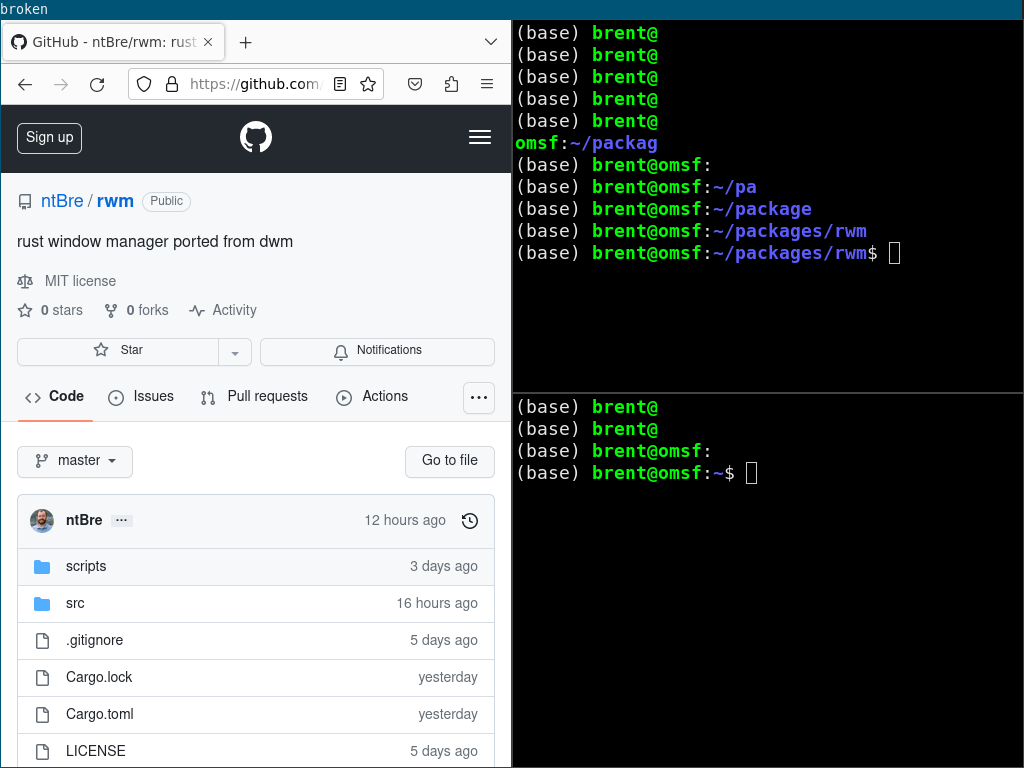
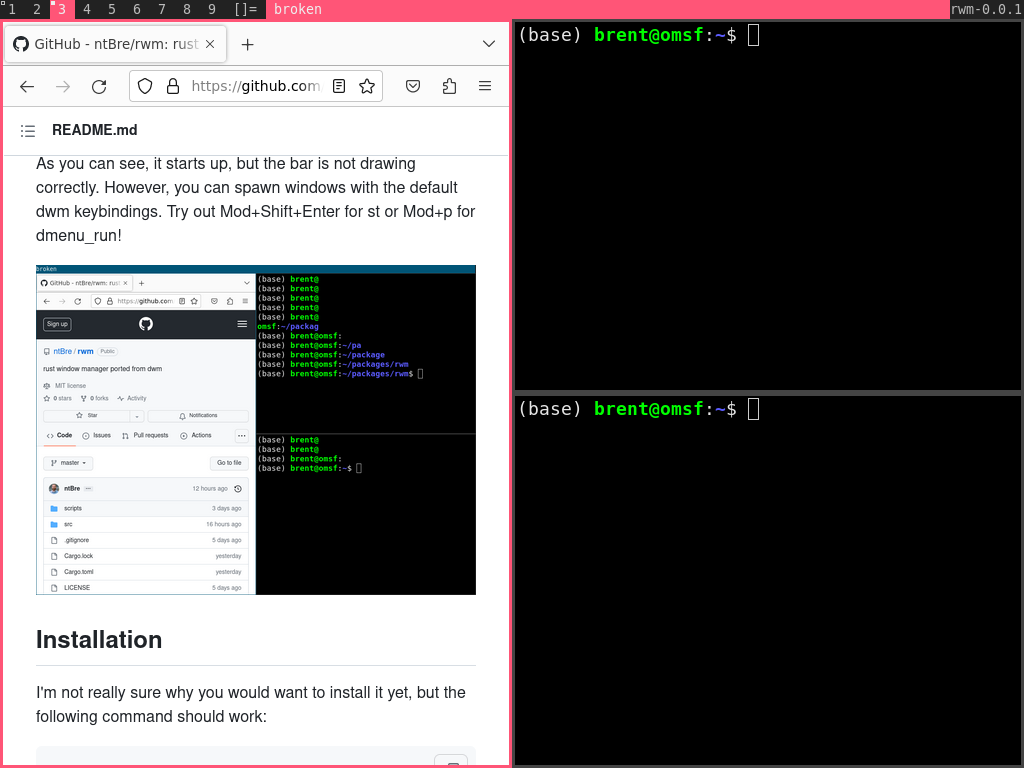
update readme and screenshot

Changed region(s): [[0.0, 0.0, 1.0, 1.0], [0.9688, 0.9688, 1.0, 1.0]]

diff --git a/README.md b/README.md
@@ -6,9 +6,9 @@ code. Once it's working in this state, I'll start moving toward a safe Rust
 version where possible. Linked lists are pretty cool, though.
 
 ## Screenshot
-As you can see, it starts up, but the bar is not drawing correctly. However, you
-can spawn windows with the default dwm keybindings. Try out Mod+Shift+Enter for
-st or Mod+p for dmenu_run!
+As you can see, it starts up, and the bar is drawing correctly! You can spawn
+windows with the default dwm keybindings. Try out Mod+Shift+Enter for st or
+Mod+p for dmenu_run!
 
 ![Screenshot](screenshot.png)
 
